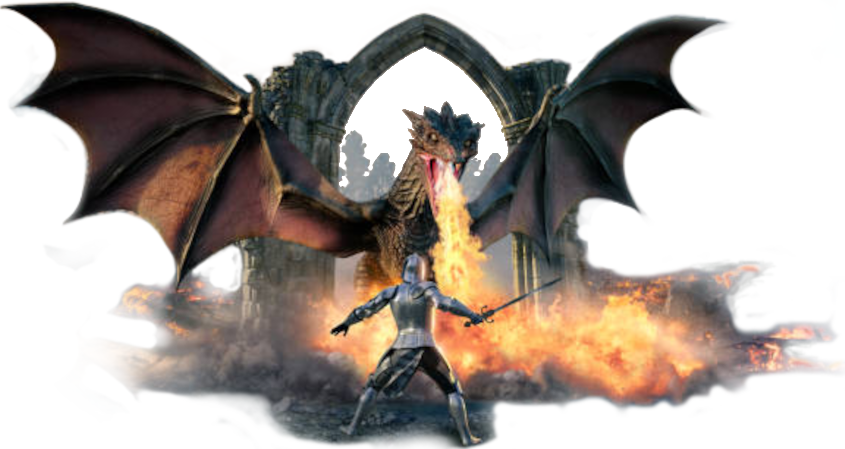
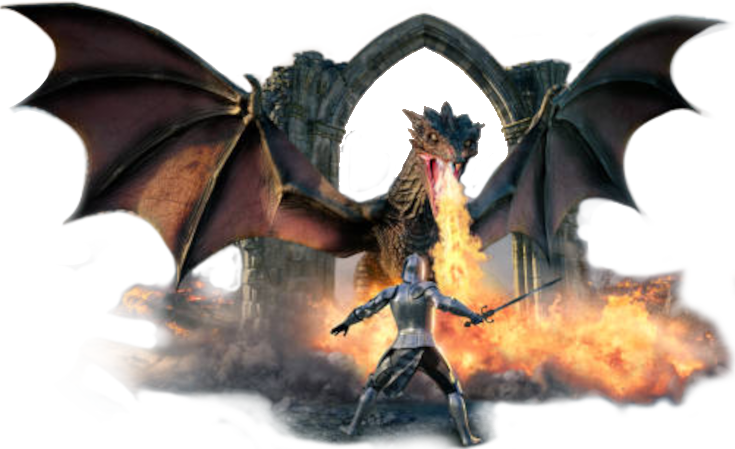
resized image and small changes to .tex

diff --git a/draft-scenarios/clash/dragon_valley.tex b/draft-scenarios/clash/dragon_valley.tex
@@ -24,14 +24,14 @@ This Scenario plays out over 13 Rounds
 
 \textbf{Starting Units:}
 \begin{itemize}
-  \item A Few of \svgunit{bronze} Units of the player's choice
-  \item A Pack of \svgunit{bronze} Units of the player's choice
+  \item 2 × Few \svgunit{bronze} Units of the highest recruitment cost
+%  \item A Pack of \svgunit{bronze} Units of the lowest recruitment cost
 \end{itemize}
 
 \textbf{Town Buildings:}
 \begin{itemize}
   \item \svgunit{bronze} Dwelling
-  \item Each player may build the the \svg{building_special_tent} building with a discount of 4 \svg{gold} and 2 \svg{building_materials}.
+  \item Each player may build the \svg{building_special_tent} building with a discount of 4 \svg{gold} and 2 \svg{building_materials}. %"Before the start" - is included in "Player Setup - town buildings". Could be added "Before start each player may..."
 \end{itemize}
 
 \subsection*{\MakeUppercase{Map Setup}}
@@ -83,7 +83,7 @@ If no player has achieved an immediate victory, the player with the most Victory
   \item[\textbf{\nth{4}}] \textbf{Round:} Remove Black Cubes from all locations that give Resources, Morale or Cards (but not from the Grail).
   \item[\textbf{\nth{8}}] \textbf{Round:} Repeat event of Round 4.
   \item[\textbf{\nth{9}}] \textbf{Round:} Repeat event of Round 1.
-  \item[\textbf{End}] \textbf{of \nth{10} Round:} Player(s) with lowest XP roll 2 \svg{resource} dice.
+  \item[\textbf{End}] \textbf{of \nth{10} Round:} Player(s) with the lowest XP roll 2 \svg{resource} dice.
 \end{itemize}
 
 \subsection*{\MakeUppercase{Additional Rules}}
@@ -99,13 +99,13 @@ If no player has achieved an immediate victory, the player with the most Victory
   \item Obelisk effect: \textbf{once per Faction} roll one \svg{resource} and draw one Card.
   \item When fighting a Neutral Combat, a player may add +1 difficulty for an extra 5 \svg{gold} + Search (2) the Artifact or the Spell Deck.
   \item Settlements on Center (VI-VII) Map Tiles are treated as two Settlements in terms of rewards AND allow rolling one \svg{resource} or \svg{treasure} (reroll any XP).
-  \item Upon flagging a Grail Field, \textbf{choose one} and then put a Black Cube:
+  \item Upon flagging a Grail Field, \textbf{choose one} and then put a Black Cube: %or "After claiming a Grail Field, choose one and then place a Black Cube."
   \begin{itemize}
     \item Receive: 10 \svg{gold}, 4 \svg{building_materials}, and 2 \svg{valuables}.
     \item Roll 2 \svg{treasure} (reroll any XP) and 2 \svg{resource}.
   \end{itemize}
-  \item When visiting a Dragon Utopia: Reshuffle the \svgunit{golden} and \svgunit{azure} Decks, then draw from \svgunit{azure} until you get 3 Dragons and choose 2 (3 on impossible difficulty), AND draw from \svgunit{golden} until you get one Dragon.
-  \item Upon flagging Dragon Utopia, \textbf{choose one} and then put a Black Cube:
+  \item When visiting a Dragon Utopia: Reshuffle the \svgunit{golden} and \svgunit{azure} Decks, then draw from \svgunit{azure} until you get 3 Dragons and choose 2 (3 on impossible difficulty), AND draw from \svgunit{golden} Neutral Deck until you get one Dragon.
+  \item Upon flagging Dragon Utopia, \textbf{choose one} and then put a Black Cube: 
   \begin{itemize}
     \item Recruit one of the defeated Dragons for half its \svg{gold} (rounded down) and its \svg{valuables} cost.
     \item Receive 15 \svg{gold} AND Search (3) any Artifact Deck.
@@ -121,7 +121,7 @@ After visiting a Dragon Utopia, roll an Attack Die:
 
 \subsection*{\MakeUppercase{Suggested Houserules}}
 \begin{itemize}
-  \item Trading Posts - on a single visit, trade Resources and remove Cards, OR buy a War Machines.
+  \item Trading Posts - on a single visit, trade Resources and remove Cards, OR buy a War Machine. %"buy a war machine", or "buy war machines"?
 %  \item Fighting Neutral Units entails the following:
 %  \begin{itemize}
 %    \item No Combat Round limit
@@ -147,7 +147,7 @@ After visiting a Dragon Utopia, roll an Attack Die:
   % 4-player
   \node at (4, -15) {\includegraphics[scale=0.165]{\maps/dragon-valley-4p.png}};
   \node at (4, -20) {\footnotesize{\textbf{\MakeUppercase{4-PLAYER SCENARIO}}}};
-  % 4-player short
+  % 4-player short (This map layout is not yet balanced and ready, has to be tested out)
   \node at (13, -15) {\includegraphics[scale=0.165]{\maps/dragon-valley-4p-short.png}};
   \node at (13, -20) {\footnotesize{\textbf{\MakeUppercase{4-PLAYER 9 ROUND SCENARIO}}}};
 \end{tikzpicture}
